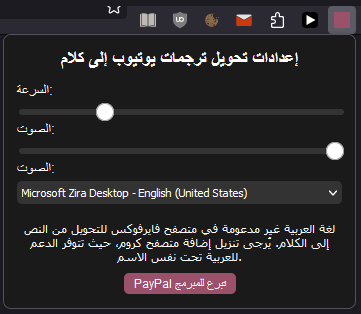
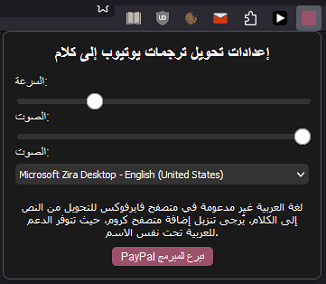
minor, readme and donate related

diff --git a/readme.md b/readme.md
@@ -1,9 +1,11 @@
 # YouTube Subtitle Reader
 
-[![License](https://img.shields.io/badge/license-GPLv3-blue.svg)](https://www.gnu.org/licenses/gpl-3.0.en.html)
+[![License](https://img.shields.io/badge/license-GPLv3-blue.svg)](https://www.gnu.org/licenses/gpl-3.0.en.html) [![Paypal donate button](readmePics/PayPal-Donate-Button.png)](https://www.paypal.com/donate/?hosted_button_id=2QH26ZA928JNC)
 
 This is a Firefox extension that allows users to have YouTube subtitles read out loud.
 It's a unique extension that fills a gap in the "market", as at the time of publishing, there is no other software/extensions available that provide this functionality.
+
+![](readmePics/enSettings.png) ![](readmePics/enOptions.png)
 
 ## Passive Exposure Research in Language Learning
 
